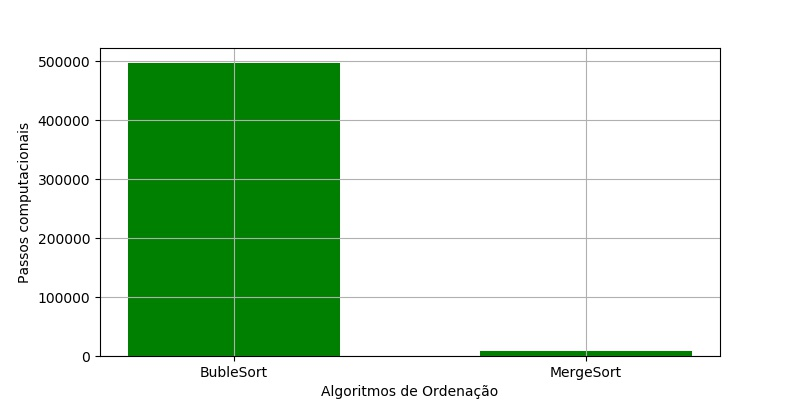
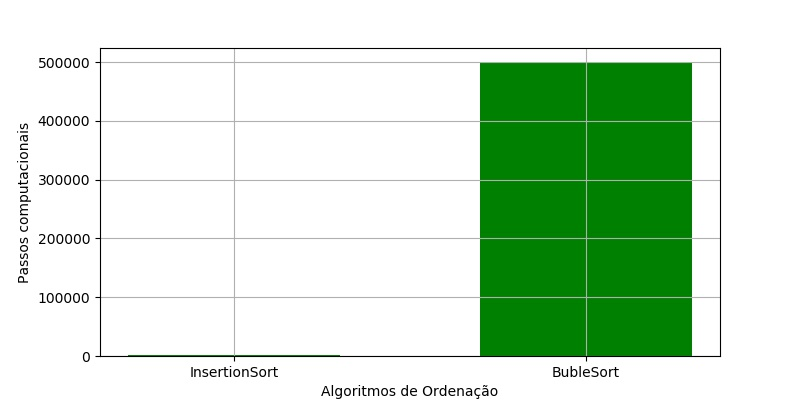
Programa pronto!!

diff --git a/Interface.py b/Interface.py
@@ -3,8 +3,9 @@ import csv
 import matplotlib.pyplot as pt
 from PIL import Image, ImageTk
 import random 
-import os
 import subprocess
+import time
+import os
 class Aplicacao:
     
     __janela = None
@@ -17,7 +18,7 @@ class Aplicacao:
     }
 
     __StringAlg = []
-
+    __StringAuxiliar = []
     def __init__(self, tk):
         self.janela = tk
         self.Frame1 = Frame(janela,height = 330, width = 200, background = "#1e8bc3");
@@ -27,6 +28,7 @@ class Aplicacao:
         self.Frame2.place(x = 110, y = 10);
 
         self.FramaInforma = Frame(self.Frame2, height = 90 , width = 600, background = "#1e8bc3")
+        self.FramaInforma.pack(padx = 10)
         self.FramaInforma.place(x = 275,  y= 5)
         
         self.LabelVetor = Label(self.FramaInforma,text = "Tamanho do vetor :", fg = "White", bg = "#1e8bc3" )
@@ -46,6 +48,9 @@ class Aplicacao:
         
         self.InformaAlg = Label(self.FramaInforma,  fg = "White", text ="...", bg = "#1e8bc3")
         self.InformaAlg.place(x=150,y=55)
+
+        self.InformaAlg2 = Label(self.FramaInforma, fg = "White", text = "...", bg = "#1e8bc3")
+        self.InformaAlg2.place( x = 10, y = 75)
 
         self.Frame3 = Frame(janela, height = 300, width = 600, background ="#1e8bc3");
         self.Frame3.place(x= 110, y = 115);
@@ -157,15 +162,21 @@ class Aplicacao:
         
         vetWrite.writerow(vetor)
 
-        #INVOCAR O EXERCUTAVEL DO C PARA RODAR OS DADOS
-        os.system("testa.exe")
-   
+        
+        
+        comando = "gcc algoritmos_ordenacao.c programa.c -o programa.exe"
+        os.system(comando)
 
+
+     
 
     #FUNÇÃO QUE PLOTA GRÁFICO EM RELAÇÃO A NÚMERO DE COMPARAÇÕES (0) OU RELAÇÃO A NÚMERO DE TROCAS (1)
     def plota_grafico(self, event):
         
-        
+
+        os.system("programa.exe")
+        time.sleep(2)
+
         for t in self.__grafico:
 
             if self.__grafico[t] == True:
@@ -356,7 +367,10 @@ class Aplicacao:
     
     def alteraAlgoritmosSelecionado(self):
         
+        #NOME DA VARÁIVEL ESTÁ COM STRING, MAIS É UMA LISTA PARA FACILITAR AS OPERAÇÕES
+        #LISTA USADO CASO SEJA SELECIONADO MAIS QUE DOIS ALGORITMOS
         
+
         for chave in self.__dados:
             
             if self.__dados[chave][1] == True:
@@ -366,14 +380,28 @@ class Aplicacao:
 
                     if(k == chave):
                         self.__StringAlg.remove(k)
-                #--------------------------------    
+                #--------------------------------
+                
+                #LISTA AUXILIAR PARA NÃO POLUIR O FRAMA NA HORA DA APRESENTAÇÃO
+                if len(self.__StringAlg) > 1:
+
+                    for i in self.__StringAuxiliar:
+                        if(i == chave):
+                           self.__StringAuxiliar.remove(i)
+                    
+                    self.__StringAuxiliar.append(chave)
+                    continue
+
                 self.__StringAlg.append(chave)
-
-
+        
+      
            
 
         self.InformaAlg["text"] = self.__StringAlg
 
+        #CASO TEVE A NECESSIDA DE TER A STRING AUXILIAR
+        if len(self.__StringAuxiliar) != 0:
+            self.InformaAlg2["text"] = self.__StringAuxiliar
        
 
     def reiniciaAlgoritmosSelecionado(self): 
@@ -384,9 +412,17 @@ class Aplicacao:
         for chave in self.__dados:
             self.__dados[chave][1] = False
         
+        #PEGANDO OS ALGORITMOS UTILIZADOS
         String = ""
         for i in self.__StringAlg:
             String += i +", "
+        
+        #CASO TENHA USADO STRING AUXILIARR
+        if len(self.__StringAuxiliar) != 0:
+            for i in self.__StringAuxiliar:
+                String += i + ","
+
+        #----------------------------------
 
         if self.InformaAlg["text"] == "Todos":
             self.LabelConcluAlgoritmosPlotados["text"] = "Todos"
@@ -396,10 +432,11 @@ class Aplicacao:
        
         self.InformaAlg["text"] = "...."
         self.LabelCompInfor["text"] = "..."
+        self.InformaAlg2["text"] = "..."
         self.__StringAlg = []
-        
+        self.__StringAuxiliar = []
 
-    
+    #INFORMA QUAL FOI O TIPO DE ANÁLISE SELECIONADA
     def labelCompInforma(self):
 
        for t in self.__grafico:
@@ -417,19 +454,32 @@ class Aplicacao:
                     pass
 
     def mostraPiorAlgoritmo(self):
-        pior = [0,""]
+        #Primeiro parâmetro da lista recebe os dados, segundo o nome do algoritmo, e o terceiro se é em relação ao nuúmero de comparações ou trocas
+        pior = [0,"",""]
 
+        #VENDO SE É NUMERO DE COMPARAÇÃO OU TROCA A ANÁLISE
+        for t in self.__grafico:
+            if self.__grafico[t] == True:
+                pior[2] = t
+
+        #VENDO DE ACORDO COM DADOS DOS ALGORITMOS SELECIONANDO QUAL É O PIOR
         for k in self.__dados:
             if self.__dados[k][1] == True:
                 if self.__dados[k][0] > pior[0]:
                     pior[1] = k
                     pior[0] = self.__dados[k][0]
                     
-        self.LabelPiorAlgoritmo["text"] = pior[1] + " >> Pior Algoritmo"
+        self.LabelPiorAlgoritmo["text"] = pior[1] + " >> Pior Algoritmo com |" + str(pior[0]) + "| números de " + pior[2]  
+    #MESMO CASO DA FUNÇÃO DE CIMA, MAS PARA O MELHOR ALGORITMO
 
     def mostraMelhorAlgoritmo(self):
         
-        melhor = [0,""]
+        melhor = [0,"",""]
+
+        for t in self.__grafico:
+            if self.__grafico[t] == True:
+                melhor[2] = t
+
 
         for k in self.__dados:
 
@@ -443,7 +493,7 @@ class Aplicacao:
                 melhor[1] = k
         
 
-        self.MelhorAlgoritmo["text"] = melhor[1] + ">> Melhor Algoritmo"
+        self.MelhorAlgoritmo["text"] = melhor[1] + ">> Melhor Algoritmo com |" + str(melhor[0]) +"| números de " + melhor[2]
 
 
 janela = Tk()   

diff --git a/programa.c b/programa.c
@@ -4,18 +4,22 @@
 
 int main(int argc, char const *argv[]) {
 
-    int vetor[] = {10,3,5,9,7};
-    int n = 5;
-    int dados;
     
+    //PONTEIRO PARA ARQUIVOS 
     FILE *arquivo_dados;
     FILE *arquivoVetor;
     FILE *arquivo_trocas;
 
+    /*PARAMETRO PASSADOS AS FUNÇÕES PARA RECEBER O NÚMERO 
+      DE COMPARAÇÃO DO ALGORITMOS DE ORDENAÇÃO
+    */
     int numeroComparacao = 0;
     int *pontNumComp;
     pontNumComp = &numeroComparacao;
 
+     /*PARAMETRO PASSADOS AS FUNÇÕES PARA RECEBER O NÚMERO 
+      DE TROCAS DO ALGORITMOS DE ORDENAÇÃO
+    */
     int numeroDeTrocas = 0;
     int *pontNumTroca;
     pontNumTroca = &numeroDeTrocas;
@@ -31,7 +35,7 @@ int main(int argc, char const *argv[]) {
     int quantidade = 0;
     int inteiro = 0;
     
-    arquivoVetor = fopen("vetor.csv", "r");
+    arquivoVetor = fopen("vetor.csv", "r");//ARQUIVO ONDE ESTÁ O VETOR DESORDENADO
 
     while (!feof(arquivoVetor))
     {
@@ -96,15 +100,15 @@ int main(int argc, char const *argv[]) {
     fprintf(arquivo_dados,"%d;", numeroComparacao);
     fprintf(arquivo_trocas,"%d;", numeroDeTrocas);
 
-    printf("Números de comparações >>> %d \n", numeroComparacao);
-    printf("Números de trocas >> %d \n", numeroDeTrocas);
+    //printf("Números de comparações >>> %d \n", numeroComparacao);
+    //printf("Números de trocas >> %d \n", numeroDeTrocas);
 
     //TESTANDO PARA VER SE ORDENOU
-    for(int i = 0; i< quantidade; i++){
-        printf("|%d|, ",vet[i]);
-    }
+    //for(int i = 0; i< quantidade; i++){
+        //printf("|%d|, ",vet[i]);
+    
 
-    //ERRO NÃO ESTÁ ORDENANDO
+    //ESTÁ ORDENANDO
 
 
 //------------------------------------------------------------
@@ -297,8 +301,10 @@ arquivoVetor = fopen("vetor.csv", "r");
     //stooge ta rodando
 //----------------------------------------------------------------------
 
+    //FECHANDO ARQUIVO ONDE CONTEM OS DADOS
     fclose(arquivo_dados);
-    
+    fclose(arquivo_trocas);
+
     //Desalocando memória
     free(vet);
 
